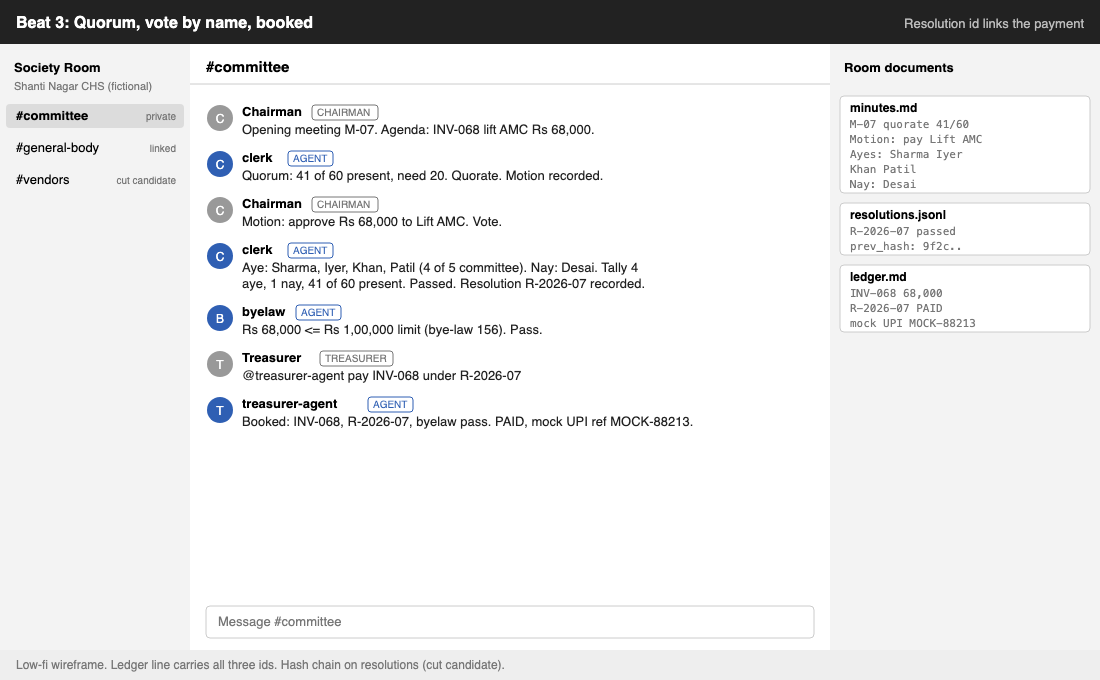
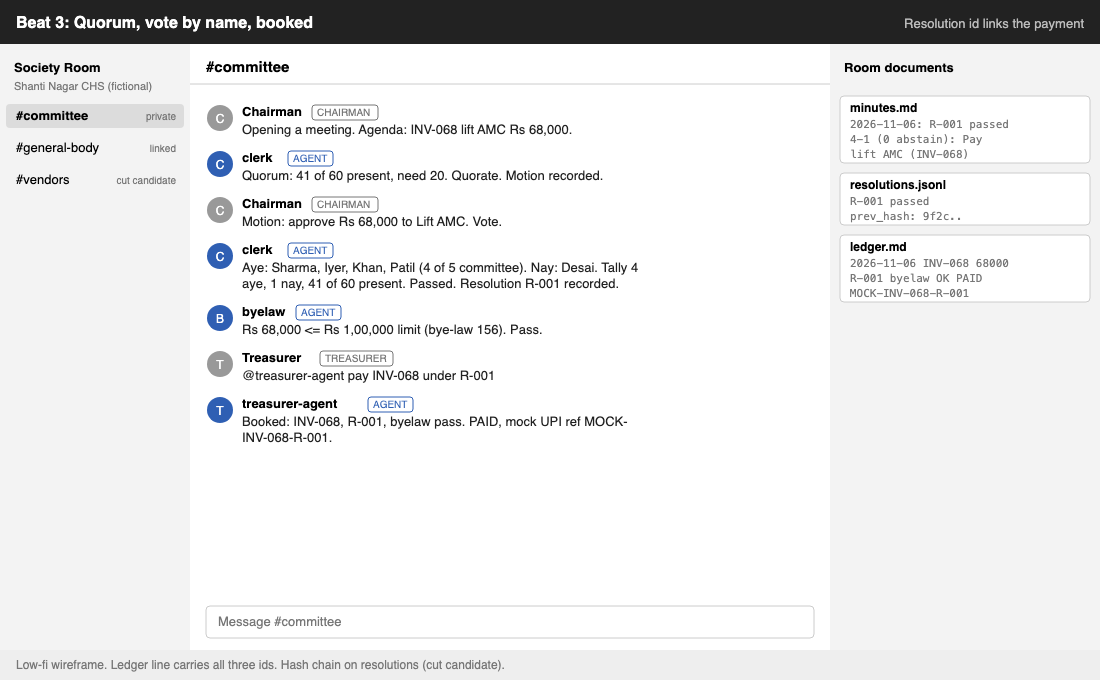
design: wireframes use real record ids (R-001, MOCK-INV-068-R-001), Rs 94

diff --git a/docs/design/wireframes/make.py b/docs/design/wireframes/make.py
@@ -105,39 +105,39 @@ BEATS = [
    ("resolutions.jsonl", ["(none for INV-068)"]), ("ledger.md", ["(empty)"])],
   "Red banner = refusal by role addressing (Switch), not by the LLM. Second refusal = rule check."),
  (3, "Quorum, vote by name, booked", "Resolution id links the payment", "#committee",
-  [("human", "Chairman", "CHAIRMAN", "Opening meeting M-07. Agenda: INV-068 lift AMC Rs 68,000."),
+  [("human", "Chairman", "CHAIRMAN", "Opening a meeting. Agenda: INV-068 lift AMC Rs 68,000."),
    ("agent", "clerk", "", "Quorum: 41 of 60 present, need 20. Quorate. Motion recorded."),
    ("human", "Chairman", "CHAIRMAN", "Motion: approve Rs 68,000 to Lift AMC. Vote."),
-   ("agent", "clerk", "", "Aye: Sharma, Iyer, Khan, Patil (4 of 5 committee). Nay: Desai. Tally 4 aye, 1 nay, 41 of 60 present. Passed. Resolution R-2026-07 recorded."),
+   ("agent", "clerk", "", "Aye: Sharma, Iyer, Khan, Patil (4 of 5 committee). Nay: Desai. Tally 4 aye, 1 nay, 41 of 60 present. Passed. Resolution R-001 recorded."),
    ("agent", "byelaw", "", "Rs 68,000 <= Rs 1,00,000 limit (bye-law 156). Pass."),
-   ("human", "Treasurer", "TREASURER", "@treasurer-agent pay INV-068 under R-2026-07"),
-   ("agent", "treasurer-agent", "", "Booked: INV-068, R-2026-07, byelaw pass. PAID, mock UPI ref MOCK-88213."),
+   ("human", "Treasurer", "TREASURER", "@treasurer-agent pay INV-068 under R-001"),
+   ("agent", "treasurer-agent", "", "Booked: INV-068, R-001, byelaw pass. PAID, mock UPI ref MOCK-INV-068-R-001."),
   ],
-  [("minutes.md", ["M-07  quorate 41/60", "Motion: pay Lift AMC", "Ayes: Sharma Iyer", "      Khan Patil", "Nay: Desai"]),
-   ("resolutions.jsonl", ["R-2026-07 passed", "prev_hash: 9f2c.."]),
-   ("ledger.md", ["INV-068 68,000", "R-2026-07  PAID", "mock UPI MOCK-88213"])],
+  [("minutes.md", ["2026-11-06: R-001 passed", "4-1 (0 abstain): Pay", "lift AMC (INV-068)"]),
+   ("resolutions.jsonl", ["R-001 passed", "prev_hash: 9f2c.."]),
+   ("ledger.md", ["2026-11-06 INV-068 68000", "R-001 byelaw OK PAID", "MOCK-INV-068-R-001"])],
   "Ledger line carries all three ids. Hash chain on resolutions (cut candidate)."),
  (4, "Rs 4 lakh bid goes to the AGM", "Bye-law 156 cap enforced in code", "#committee",
   [("human", "Secretary", "SECRETARY", "Repainting bid INV-400: Rs 4,00,000 from Rangoli Paints. Committee to approve?"),
    ("agent", "byelaw", "", "REFUSED over bye-law 156 limit Rs 1,00,000 (51+ members); referred to AGM"),
-   ("agent", "byelaw", "", "Added to agenda.md as A-3 for a general-body resolution."),
+   ("agent", "byelaw", "", "Added to agenda.md: AGM sanction for INV-400."),
    ("human", "Treasurer", "TREASURER", "@treasurer-agent pay the repainting advance"),
    ("agent", "treasurer-agent", "", "REFUSED no passed resolution for invoice INV-400"),
   ],
   [("byelaws.yaml", ["51+ members:", "  committee_limit: 100000"]),
-   ("agenda.md", ["AGM", "A-3 Repainting Rs 4,00,000", "   (over committee limit)"]),
+   ("agenda.md", ["- AGM sanction for", "  INV-400: over bye-law", "  156 limit"]),
    ("ledger.md", ["INV-068 PAID", "(no repainting line)"])],
   "Limit check is deterministic code over byelaws.yaml, cited by number."),
  (5, "A resident asks, the concierge cites", "Linked #general-body, read-only on drafts", "#general-body",
   [("human", "member-23", "RESIDENT", "Why did maintenance go up Rs 94 a month?"),
-   ("agent", "concierge", "", "Ledger line L-31 shows the lift AMC contract (Rs 68,000/yr). Minute M-07 and resolution R-2026-07 approved it: 4 aye, 1 nay, 41 of 60 members present. Rs 68,000 / 60 flats / 12 months = about Rs 94 a month per flat."),
+   ("agent", "concierge", "", "Ledger line INV-068 (Rs 68,000, lift AMC) was booked under resolution R-001, passed 4-1 in the 2026-11-06 minutes: 4 aye, 1 nay, 41 of 60 members present. Rs 68,000 / 60 flats / 12 months = about Rs 94 a month per flat."),
    ("human", "member-23", "RESIDENT", "I want to inspect the records (Section 154B-8)."),
    ("agent", "concierge", "", "Published for inspection: minutes.md, ledger.md, resolutions.jsonl. Drafts stay in #committee."),
    ("human", "member-31", "RESIDENT", "Who approved the painting?"),
-   ("agent", "concierge", "", "Nobody yet. It is agenda item A-3 for the AGM. Filed as a question there."),
+   ("agent", "concierge", "", "Nobody yet. The Rs 4,00,000 repainting (INV-400) is on the AGM agenda; your question is filed there."),
   ],
-  [("minutes.md", ["published", "M-07 ..."]), ("ledger.md", ["published", "L-31 lift AMC 68,000"]),
-   ("resolutions.jsonl", ["published", "R-2026-07"]), ("agenda.md", ["A-3 filed from member-31"])],
+  [("minutes.md", ["published", "R-001 passed 4-1"]), ("ledger.md", ["published", "INV-068 68000 PAID"]),
+   ("resolutions.jsonl", ["published", "R-001"]), ("agenda.md", ["- AGM sanction for INV-400", "- question from member-31"])],
   "concierge answers only from published files; unanswerable = filed as agenda item."),
 ]
 
